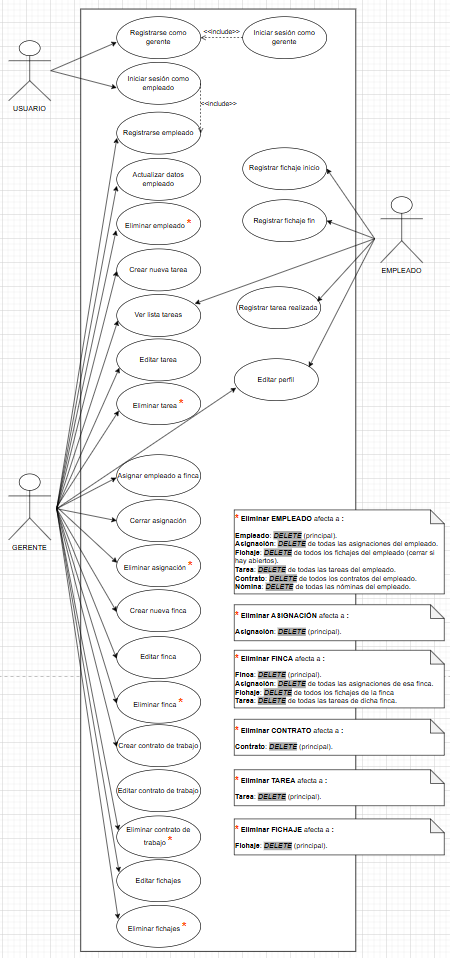
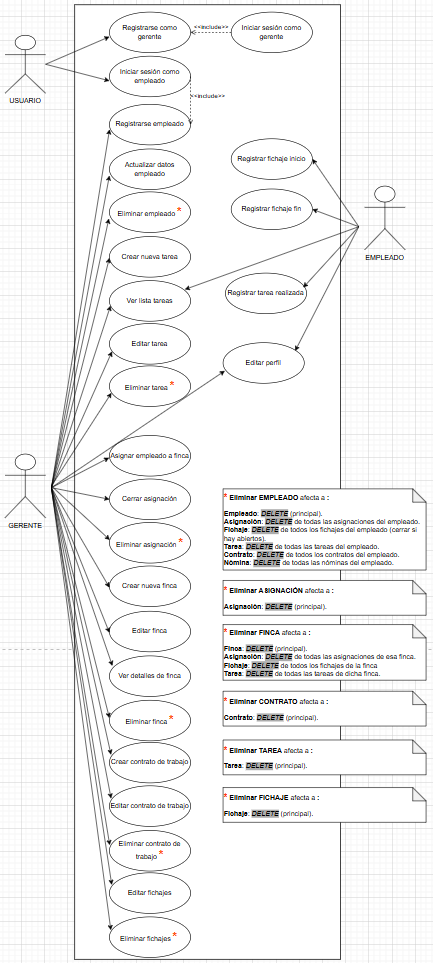
cambios

Changed region(s): [[0.0, 0.0, 0.9908, 0.999]]

diff --git a/README.md b/README.md
@@ -112,33 +112,34 @@ disponibles para **Usuario**, **Gerente** y **Empleado**.
 
 # Casos de Uso – AgroManager (según el diagrama)
 
-| **Nº** | **Actor**            | **Caso de uso**                  | **Descripción**                                                                                           |
-|--------|----------------------|----------------------------------|-----------------------------------------------------------------------------------------------------------|
-| **1**  | **Usuario**          | **Registrarse como gerente**     | Crea un nuevo usuario con rol GERENTE para acceder por primera vez (incluye iniciar sesión como gerente). |
-| **2**  | **Usuario**          | **Iniciar sesión como gerente**  | Permite a un gerente autenticarse en el sistema mediante credenciales.                                    |
+| **Nº** | **Actor**            | **Caso de uso**                 | **Descripción**                                                                                           |
+|--------|----------------------|---------------------------------|-----------------------------------------------------------------------------------------------------------|
+| **1**  | **Usuario**          | **Registrarse como gerente**    | Crea un nuevo usuario con rol GERENTE para acceder por primera vez (incluye iniciar sesión como gerente). |
+| **2**  | **Usuario**          | **Iniciar sesión como gerente** | Permite a un gerente autenticarse en el sistema mediante credenciales.                                    |
 | **3**  | **Usuario**          | **Iniciar sesión como empleado** | Permite a un empleado entrar en el sistema usando su ID y contraseña.                                     |
-| **4**  | **Gerente/Empleado** | **Editar perfil**                | El usuario puede editar sus datos perdonales y foto.                                                      |
-| **5**  | **Gerente**          | **Registrar empleado**           | Crea un nuevo usuario con rol EMPLEADO asociado a un empleado existente o recién creado.                  |
-| **6**  | **Gerente**          | **Actualizar datos empleado**    | Modifica datos del empleado como nombre, DNI, estado o usuario asociado.                                  |
-| **7**  | **Gerente**          | **Eliminar empleado**            | Elimina al empleado y borra en cascada asignaciones, fichajes, tareas, contratos y nóminas asociadas.     |
-| **8**  | **Gerente**          | **Editar tarea**                 | Modifica los datos de una tarea existente.                                                                |
-| **9**  | **Gerente**          | **Crear nueva tarea**            | Permite crear una tarea para ser asignada o realizada por un empleado.                                    |
-| **10** | **Gerente/Empleado** | **Ver lista tareas**             | Consulta el listado de todas las tareas creadas.                                                          |
-| **11** | **Gerente**          | **Eliminar tarea**               | Elimina una tarea del sistema.                                                                            |
-| **12** | **Gerente**          | **Asignar empleado a finca**     | Registra una asignación entre un empleado y una finca.                                                    |
-| **13** | **Gerente**          | **Cerrar asignación**            | Finaliza una asignación sin eliminarla, anotando fecha de cierre.                                         |
-| **14** | **Gerente**          | **Eliminar asignación**          | Borra la asignación entre empleado y finca.                                                               |
-| **15** | **Gerente**          | **Crear nueva finca**            | Crea una finca indicando nombre, ubicación, estado y superficie.                                          |
-| **16** | **Gerente**          | **Editar finca**                 | Modifica los datos de una finca (nombre, ubicación, superficie o estado).                                 |
-| **17** | **Gerente**          | **Eliminar finca**               | Elimina una finca y borra asignaciones y tareas dependientes.                                             |
-| **18** | **Gerente**          | **Crear contrato de trabajo**    | Registra un contrato con tipo, fechas, salario y tarifa por hora.                                         |
-| **19** | **Gerente**          | **Editar contrato de trabajo**   | Modifica los datos de un contrato existente.                                                              |
-| **20** | **Gerente**          | **Eliminar contrato de trabajo** | Elimina un contrato concreto del sistema.                                                                 |
-| **21** | **Gerente**          | **Editar fichajes**              | Modifica fichajes de los empleados (horas de inicio/fin).                                                 |
-| **22** | **Gerente**          | **Eliminar fichajes**            | Elimina un fichaje concreto del sistema.                                                                  |
-| **23** | **Empleado**         | **Registrar fichaje inicio**     | Registra la hora de inicio de la jornada laboral.                                                         |
-| **24** | **Empleado**         | **Registrar fichaje fin**        | Registra la hora de fin de la jornada laboral y cierra el fichaje.                                        |
-| **25** | **Empleado**         | **Registrar tarea realizada**    | El empleado registra una tarea completada indicando tipo y duración.                                      |
+| **4**  | **Gerente/Empleado** | **Editar perfil**               | El usuario puede editar sus datos perdonales y foto.                                                      |
+| **5**  | **Gerente**          | **Registrar empleado**          | Crea un nuevo usuario con rol EMPLEADO asociado a un empleado existente o recién creado.                  |
+| **6**  | **Gerente**          | **Actualizar datos empleado**   | Modifica datos del empleado como nombre, DNI, estado o usuario asociado.                                  |
+| **7**  | **Gerente**          | **Eliminar empleado**           | Elimina al empleado y borra en cascada asignaciones, fichajes, tareas, contratos y nóminas asociadas.     |
+| **8**  | **Gerente**          | **Editar tarea**                | Modifica los datos de una tarea existente.                                                                |
+| **9**  | **Gerente**          | **Crear nueva tarea**           | Permite crear una tarea para ser asignada o realizada por un empleado.                                    |
+| **10** | **Gerente/Empleado** | **Ver lista tareas**            | Consulta el listado de todas las tareas creadas.                                                          |
+| **11** | **Gerente**          | **Eliminar tarea**              | Elimina una tarea del sistema.                                                                            |
+| **12** | **Gerente**          | **Asignar empleado a finca**    | Registra una asignación entre un empleado y una finca.                                                    |
+| **13** | **Gerente**          | **Cerrar asignación**           | Finaliza una asignación sin eliminarla, anotando fecha de cierre.                                         |
+| **14** | **Gerente**          | **Eliminar asignación**         | Borra la asignación entre empleado y finca.                                                               |
+| **15** | **Gerente**          | **Crear nueva finca**           | Crea una finca indicando nombre, ubicación, estado y superficie.                                          |
+| **16** | **Gerente**          | **Editar finca**                | Modifica los datos de una finca (nombre, ubicación, superficie o estado).                                 |
+| **17** | **Gerente**          | **Ver detalle de finca**        | Observar detllas de la finca seleccionada + API de un mapa integrado.                                     |
+| **18** | **Gerente**          | **Eliminar finca**              | Elimina una finca y borra asignaciones y tareas dependientes.                                             |
+| **19** | **Gerente**          | **Crear contrato de trabajo**   | Registra un contrato con tipo, fechas, salario y tarifa por hora.                                         |
+| **20** | **Gerente**          | **Editar contrato de trabajo**  | Modifica los datos de un contrato existente.                                                              |
+| **21** | **Gerente**          | **Eliminar contrato de trabajo** | Elimina un contrato concreto del sistema.                                                                 |
+| **22** | **Gerente**          | **Editar fichajes**             | Modifica fichajes de los empleados (horas de inicio/fin).                                                 |
+| **23** | **Gerente**          | **Eliminar fichajes**           | Elimina un fichaje concreto del sistema.                                                                  |
+| **24** | **Empleado**         | **Registrar fichaje inicio**    | Registra la hora de inicio de la jornada laboral.                                                         |
+| **25** | **Empleado**         | **Registrar fichaje fin**       | Registra la hora de fin de la jornada laboral y cierra el fichaje.                                        |
+| **26** | **Empleado**         | **Registrar tarea realizada**   | El empleado registra una tarea completada indicando tipo y duración.                                      |
 
                       |
 
